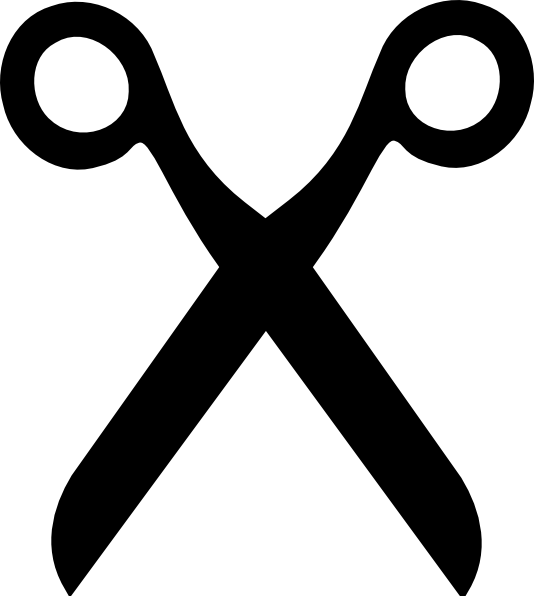
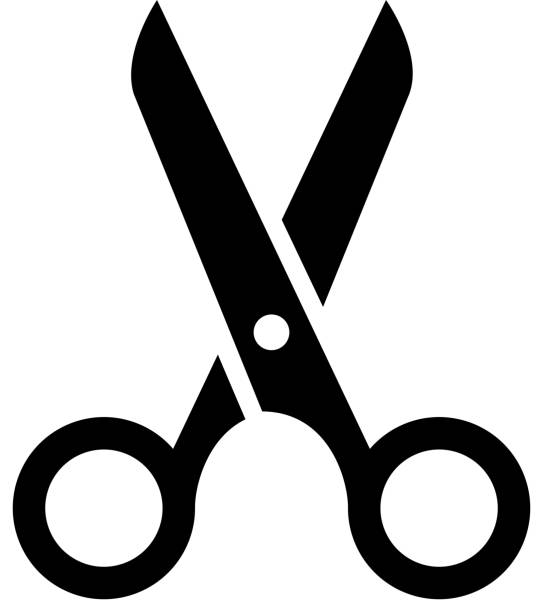
images and colors

diff --git a/p5 copy/sketch.js b/p5 copy/sketch.js
@@ -1,14 +1,31 @@
-//let titleImput;
-//let typedTitle = "";
-let artboardColor;
-let 
-
 function preload(){
 	bgColor = loadImage('bgcolor.jpg');
 	bgImage = loadImage('bgImage.png');
 	person = loadImage('people.png');
 	objects = loadImage('object.jpg');
 	shapes = loadImage('shapes.jpg');
+	boat = loadImage('boat.png');
+	climber = loadImage('climber.png');
+	gardner = loadImage('gardener.png');
+	gov = loadImage('gov.png');
+	pinkheart = loadImage('heart.png');
+	horse = loadImage('horse.png');
+	kids = loadImage('kids.png');
+	knife = loadImage('knife.png');
+	lake = loadImage('lake.png');
+	laundry = loadImage('laundry.png');
+	lipgloss = loadImage('lipgloss.png');
+	mirror = loadImage('mirror.png');
+	ocean = loadImage('ocean.png');
+	orange = loadImage('orange.png');
+	pencil = loadImage('pencil.png');
+	redheart = loadImage('redheart.png');
+	safari = loadImage('safari.png');
+	salt = loadImage('salt.webp');
+	sitter = loadImage('sitter.png');
+	skiier = loadImage('skiier.png');
+	tape = loadImage('tape.png');
+	weds = loadImage('weds.png');
 }
 
 function setup() {
@@ -166,6 +183,7 @@ function people(){
 	textSize(50);
 	textStyle(BOLD);
 	text('PEOPLE', 100, 80);
+	
 }
 
 function object(){
@@ -173,7 +191,7 @@ function object(){
 	textFont('Helvetica Neue');
 	textSize(50);
 	textStyle(BOLD);
-	text('OBJECT', 100, 80);
+	text('OBJECTS', 100, 80);
 	
 }
 
@@ -182,5 +200,5 @@ function shape(){
 	textFont('Helvetica Neue');
 	textSize(50);
 	textStyle(BOLD);
-	text('SHAPE', 100, 80);
+	text('SHAPES', 100, 80);
 }
